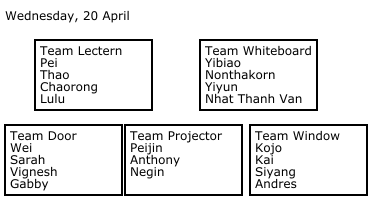
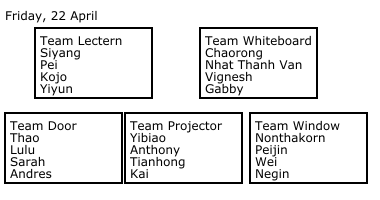
touch ups, maybe unnecessary for extra students

Changed region(s): [[0.0, 0.03, 0.9842, 0.99]]

diff --git a/makeSmallGroups.py b/makeSmallGroups.py
@@ -21,11 +21,11 @@ def makeSmallGroups():
         ySize = 200
         yShift = ySize/2+20
         Teams_list = [
-            ['Whiteboard',   [200, yShift- 30, 117, 70], 4],
-            ['Door',         [  5, yShift-115, 117, 70], 4],
-            ['Window',       [250, yShift-115, 117, 70], 4],
-            ['Lectern',      [ 35, yShift- 30, 117, 70], 4],
-            ['Projector',    [125, yShift-115, 117, 70], 4]
+            ['Whiteboard',   [200, yShift- 30+12, 117, 70], 4],
+            ['Door',         [  5, yShift-115+12, 117, 70], 4],
+            ['Window',       [250, yShift-115+12, 117, 70], 4],
+            ['Lectern',      [ 35, yShift- 30+12, 117, 70], 4],
+            ['Projector',    [125, yShift-115+12, 117, 70], 4]
             ]
         datepos = [5, 20]
     elif courseNumber == 'P50':
@@ -45,6 +45,9 @@ def makeSmallGroups():
 
     student_df = pd.read_excel(studentListFile)
     student_list = list(student_df['Students'])
+
+    print(student_list)
+    print(len(student_list))
 
     random.shuffle(student_list)
 
@@ -73,12 +76,12 @@ def makeSmallGroups():
                 fill='#ffffff',stroke_width=2,stroke='black')
 
             groupLabel = draw.Text('Team ' + thisTeam['Name'],
-                12,thisTeam['Coords'][0]+5,thisTeam['Coords'][1]+55,fill='black')
+                12,thisTeam['Coords'][0]+5,thisTeam['Coords'][1]+emSize*thisTeam['NumberOfThinkers']+5,fill='black')
             d.append(box)
             d.append(groupLabel)
             for iStudent_inThisTeam in range(thisTeam['NumberOfThinkers']):
                 studentLabel = draw.Text(student_list[iStudent],
-                12,thisTeam['Coords'][0]+5,thisTeam['Coords'][1]+55-emSize*(iStudent_inThisTeam+1),fill='black')
+                12,thisTeam['Coords'][0]+5,thisTeam['Coords'][1]+emSize*thisTeam['NumberOfThinkers']+5-emSize*(iStudent_inThisTeam+1),fill='black')
                 iStudent = iStudent + 1
                 d.append(studentLabel)
                 if iStudent >= len(student_list):
@@ -90,8 +93,8 @@ def makeSmallGroups():
 
     os.system('/Applications/Inkscape.app/Contents/MacOS/inkscape teams_' + courseNumber + '.svg -o teams_' + courseNumber + '.png')
 
-    if courseNumber=='M227C':
-        os.system('./sendToGithub.sh')
+    # if courseNumber=='M227C':
+    #     os.system('./sendToGithub.sh')
 
 if __name__ == '__main__':
     makeSmallGroups()
